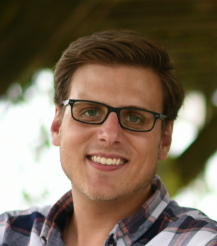
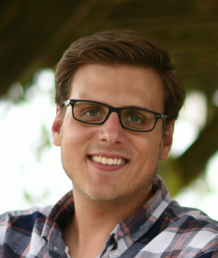
Better pic

diff --git a/post/writing-technical-content/index.html b/post/writing-technical-content/index.html
@@ -1002,7 +1002,7 @@ A Markdown aside is useful for displaying notices, hints, or definitions to your
   <div class="media author-card content-widget-hr">
     
       
-      <img class="avatar mr-3 avatar-circle" src="/authors/admin/avatar_hud448710690435c66ae587ada86500ddb_66479_270x270_fill_q90_lanczos_center.jpg" alt="Avatar">
+      <img class="avatar mr-3 avatar-circle" src="/authors/admin/avatar_hub7ed9ac0dda538395a3c527156951507_114472_270x270_fill_q90_lanczos_center.jpg" alt="Avatar">
     
 
     <div class="media-body">

diff --git a/post/2015-07-23-r-rmarkdown/index.html b/post/2015-07-23-r-rmarkdown/index.html
@@ -811,7 +811,7 @@ Figure 1: A fancy pie chart.
   <div class="media author-card content-widget-hr">
     
       
-      <img class="avatar mr-3 avatar-circle" src="/authors/admin/avatar_hud448710690435c66ae587ada86500ddb_66479_270x270_fill_q90_lanczos_center.jpg" alt="Avatar">
+      <img class="avatar mr-3 avatar-circle" src="/authors/admin/avatar_hub7ed9ac0dda538395a3c527156951507_114472_270x270_fill_q90_lanczos_center.jpg" alt="Avatar">
     
 
     <div class="media-body">

diff --git a/post/jupyter/index.html b/post/jupyter/index.html
@@ -831,7 +831,7 @@ date: 2019-09-01
   <div class="media author-card content-widget-hr">
     
       
-      <img class="avatar mr-3 avatar-circle" src="/authors/admin/avatar_hud448710690435c66ae587ada86500ddb_66479_270x270_fill_q90_lanczos_center.jpg" alt="Avatar">
+      <img class="avatar mr-3 avatar-circle" src="/authors/admin/avatar_hub7ed9ac0dda538395a3c527156951507_114472_270x270_fill_q90_lanczos_center.jpg" alt="Avatar">
     
 
     <div class="media-body">

diff --git a/post/getting-started/index.html b/post/getting-started/index.html
@@ -936,7 +936,7 @@
   <div class="media author-card content-widget-hr">
     
       
-      <img class="avatar mr-3 avatar-circle" src="/authors/admin/avatar_hud448710690435c66ae587ada86500ddb_66479_270x270_fill_q90_lanczos_center.jpg" alt="Avatar">
+      <img class="avatar mr-3 avatar-circle" src="/authors/admin/avatar_hub7ed9ac0dda538395a3c527156951507_114472_270x270_fill_q90_lanczos_center.jpg" alt="Avatar">
     
 
     <div class="media-body">

diff --git a/project/external-project/index.html b/project/external-project/index.html
@@ -803,7 +803,7 @@
   <div class="media author-card content-widget-hr">
     
       
-      <img class="avatar mr-3 avatar-circle" src="/authors/admin/avatar_hud448710690435c66ae587ada86500ddb_66479_270x270_fill_q90_lanczos_center.jpg" alt="Avatar">
+      <img class="avatar mr-3 avatar-circle" src="/authors/admin/avatar_hub7ed9ac0dda538395a3c527156951507_114472_270x270_fill_q90_lanczos_center.jpg" alt="Avatar">
     
 
     <div class="media-body">

diff --git a/project/internal-project/index.html b/project/internal-project/index.html
@@ -826,7 +826,7 @@
   <div class="media author-card content-widget-hr">
     
       
-      <img class="avatar mr-3 avatar-circle" src="/authors/admin/avatar_hud448710690435c66ae587ada86500ddb_66479_270x270_fill_q90_lanczos_center.jpg" alt="Avatar">
+      <img class="avatar mr-3 avatar-circle" src="/authors/admin/avatar_hub7ed9ac0dda538395a3c527156951507_114472_270x270_fill_q90_lanczos_center.jpg" alt="Avatar">
     
 
     <div class="media-body">

diff --git a/talk/example/index.html b/talk/example/index.html
@@ -891,7 +891,7 @@
   <div class="media author-card content-widget-hr">
     
       
-      <img class="avatar mr-3 avatar-circle" src="/authors/admin/avatar_hud448710690435c66ae587ada86500ddb_66479_270x270_fill_q90_lanczos_center.jpg" alt="Avatar">
+      <img class="avatar mr-3 avatar-circle" src="/authors/admin/avatar_hub7ed9ac0dda538395a3c527156951507_114472_270x270_fill_q90_lanczos_center.jpg" alt="Avatar">
     
 
     <div class="media-body">

diff --git a/authors/admin/index.html b/authors/admin/index.html
@@ -531,7 +531,7 @@
 
       
       
-      <img class="avatar avatar-circle" src="/authors/admin/avatar_hud448710690435c66ae587ada86500ddb_66479_270x270_fill_q90_lanczos_center.jpg" alt="Avatar">
+      <img class="avatar avatar-circle" src="/authors/admin/avatar_hub7ed9ac0dda538395a3c527156951507_114472_270x270_fill_q90_lanczos_center.jpg" alt="Avatar">
       
 
       <div class="portrait-title">

diff --git a/index.html b/index.html
@@ -590,7 +590,7 @@
 
       
       
-      <img class="avatar avatar-circle" src="/authors/admin/avatar_hud448710690435c66ae587ada86500ddb_66479_270x270_fill_q90_lanczos_center.jpg" alt="Avatar">
+      <img class="avatar avatar-circle" src="/authors/admin/avatar_hub7ed9ac0dda538395a3c527156951507_114472_270x270_fill_q90_lanczos_center.jpg" alt="Avatar">
       
 
       <div class="portrait-title">
